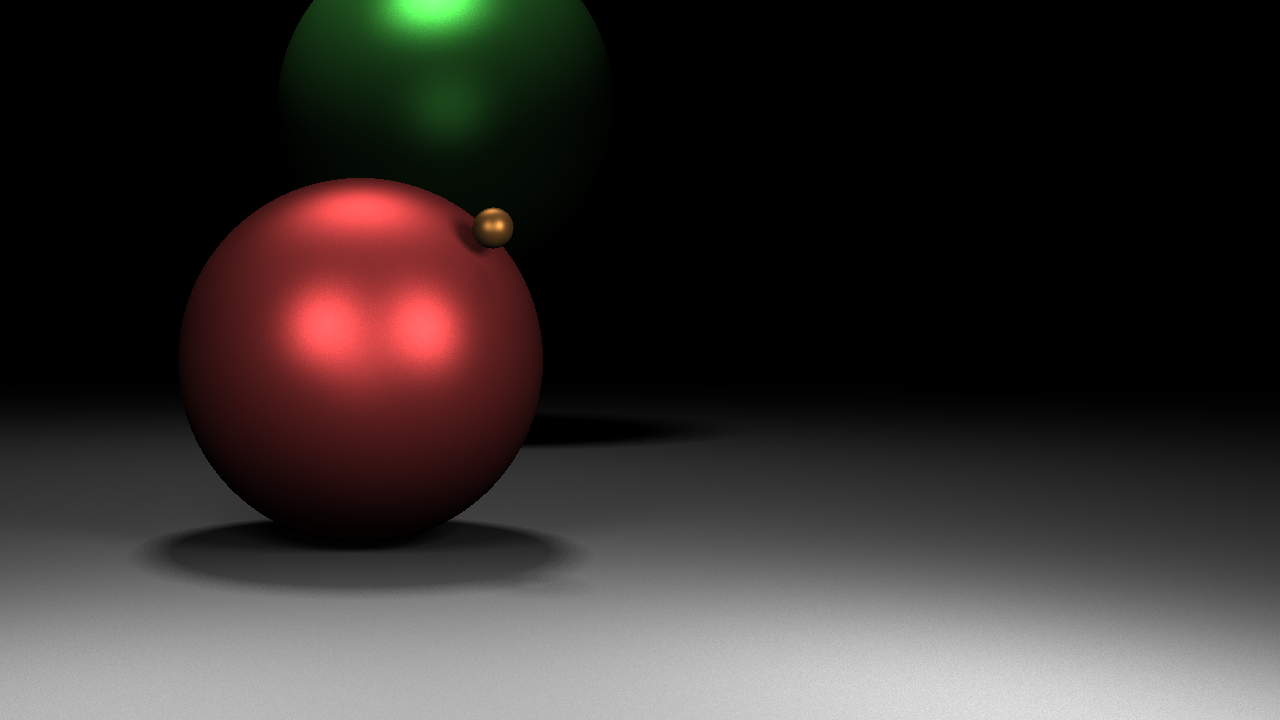
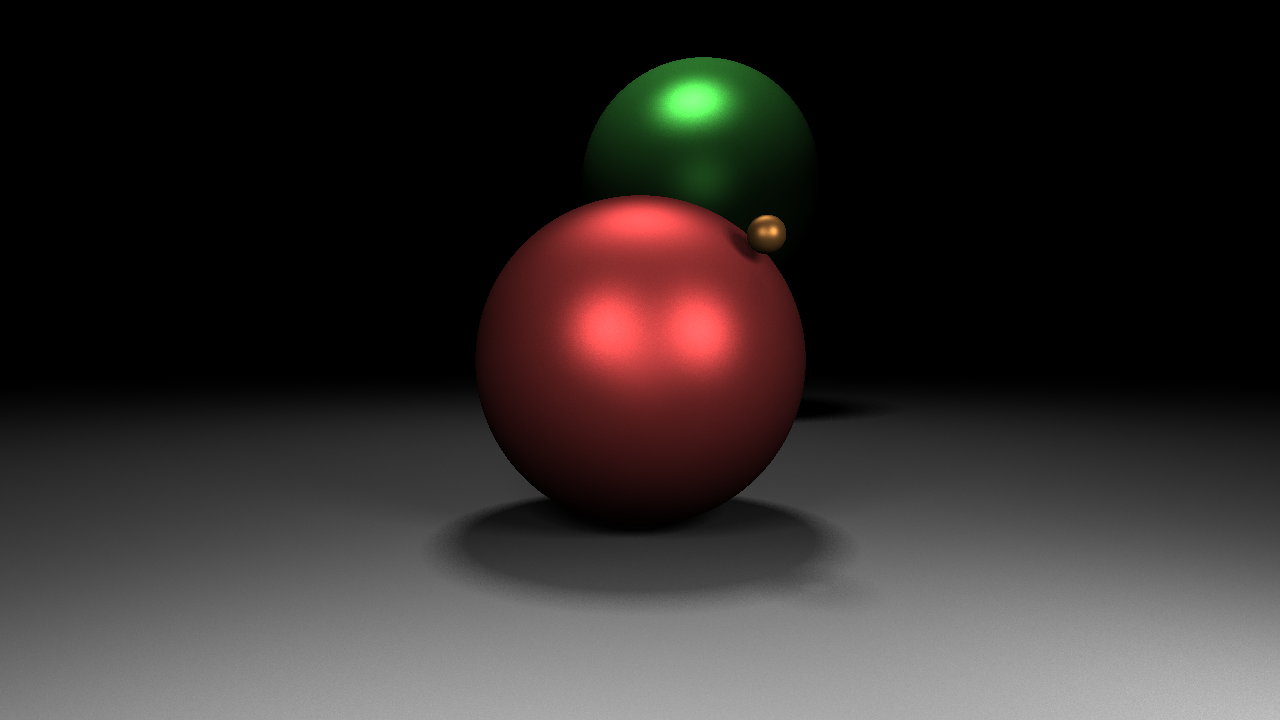
Refactor the camera code and make it customizable.

diff --git a/src/camera.rs b/src/camera.rs
@@ -1,35 +1,79 @@
-use cgmath::{InnerSpace, Point3};
+use cgmath::{dot, InnerSpace, Matrix3, Point3, Vector3};
 use std::time;
 
 use crate::scene::Scene;
 
 pub struct Camera {
+    origin: Point3<f32>,
+    direction: Vector3<f32>,
+    up: Vector3<f32>,
+    horizontal_fov: f32,
     w: u32,
     h: u32,
-    scale: f32,
-    origin: Point3<f32>,
 }
 
 impl Camera {
-    pub fn new(w: u32, h: u32, origin: Point3<f32>) -> Self {
+    pub fn new() -> Self {
         Camera {
-            w,
-            h,
-            origin,
-            scale: 2. / (h as f32)
+            origin: Point3::new(0., 0., 1.),
+            direction: Vector3::new(0., 0., -1.),
+            up: Vector3::new(0., 1., 0.),
+            horizontal_fov: std::f32::consts::FRAC_PI_2,
+            w: 1280,
+            h: 720,
         }
     }
 
+    pub fn set_origin(mut self, origin: Point3<f32>) -> Self {
+        self.origin = origin;
+        self
+    }
+
+    pub fn set_direction(mut self, direction: Vector3<f32>) -> Self {
+        self.direction = direction.normalize();
+        self
+    }
+
+    pub fn set_up(mut self, up: Vector3<f32>) -> Self {
+        self.up = up.normalize();
+        self
+    }
+
+    pub fn set_fov(mut self, fov: f32) -> Self {
+        self.horizontal_fov = fov;
+        self
+    }
+
+    pub fn set_dimensions(mut self, w: u32, h: u32) -> Self {
+        self.w = w;
+        self.h = h;
+        self
+    }
+
     pub fn render(&self, scene: &Scene) -> image::ImageBuffer<image::Rgb<u8>, Vec<u8>> {
+        let project_up = dot(self.direction, self.up);
+        let up = (self.up - project_up * self.direction).normalize();
+        let left = -self.direction.cross(up);
+
+        let hfov_tan = (self.horizontal_fov / 2.).tan();
+        let vfov_tan = (self.h as f32) / (self.w as f32) * hfov_tan;
+
+        let frame_left = self.direction + left * hfov_tan;
+        let frame_upleft = frame_left + up * vfov_tan;
+
+        let ray_mat = Matrix3::from_cols(
+            -left * hfov_tan * 2. / (self.w as f32),
+            -up * vfov_tan * 2. / (self.h as f32),
+            frame_upleft
+        );
+
         let mut image = image::ImageBuffer::new(self.w, self.h);
         let start = time::Instant::now();
         let mut rays: u64 = 0;
 
         for (x, y, pixel) in image.enumerate_pixels_mut() {
             rays += 1;
-            let x = (x as f32) * self.scale - 1.;
-            let y = -(y as f32) * self.scale + 1.;
-            let dir = Point3::new(x, y, 0.) - self.origin;
+            let dir = ray_mat * Vector3::new(x as f32, y as f32, 1.);
             let dir = dir.normalize();
             *pixel = scene.ray_color(self.origin, dir);
         }

diff --git a/src/main.rs b/src/main.rs
@@ -4,11 +4,23 @@ use raytracer::*;
 
 fn main() {
     let mut scene = Scene::new();
-    scene.add_plane(Plane::new(Point3::new(0., -1., 0.), Vector3::new(0., 1., 0.)), Material::new(0.8, 0.8, 0.8));
+    scene.add_plane(
+        Plane::new(Point3::new(0., -1., 0.), Vector3::new(0., 1., 0.)),
+        Material::new(0.8, 0.8, 0.8),
+    );
 
-    scene.add_sphere(Sphere::new(Point3::new(0.0, 0.0, -3.), 1.), Material::new(0.75, 0.25, 0.25));
-    scene.add_sphere(Sphere::new(Point3::new(1.0, 3.0, -10.), 2.), Material::new(0.25, 0.65, 0.25));
-    scene.add_sphere(Sphere::new(Point3::new(0.65, 0.65, -2.3), 0.1), Material::new(0.6, 0.4, 0.2));
+    scene.add_sphere(
+        Sphere::new(Point3::new(0.0, 0.0, -3.), 1.),
+        Material::new(0.75, 0.25, 0.25),
+    );
+    scene.add_sphere(
+        Sphere::new(Point3::new(1.0, 3.0, -10.), 2.),
+        Material::new(0.25, 0.65, 0.25),
+    );
+    scene.add_sphere(
+        Sphere::new(Point3::new(0.65, 0.65, -2.3), 0.1),
+        Material::new(0.6, 0.4, 0.2),
+    );
 
     scene.add_point_light(Point3::new(0., 0.1, 3.5), 3.);
     scene.add_sphere_light(Point3::new(2., 1., 0.), 0.5, 3.);
@@ -16,7 +28,7 @@ fn main() {
     scene.add_sphere_light(Point3::new(0., 10., -5.), 1.0, 30.);
     // scene.add_sphere_light(Point3::new(-0.65, 0.65, -2.3), 0.1, 0.1);
 
-    let camera = Camera::new(1280, 720, Point3::new(0., 0., 3.));
+    let camera = Camera::new();
     let image = camera.render(&scene);
 
     image.save("image.png").unwrap();
